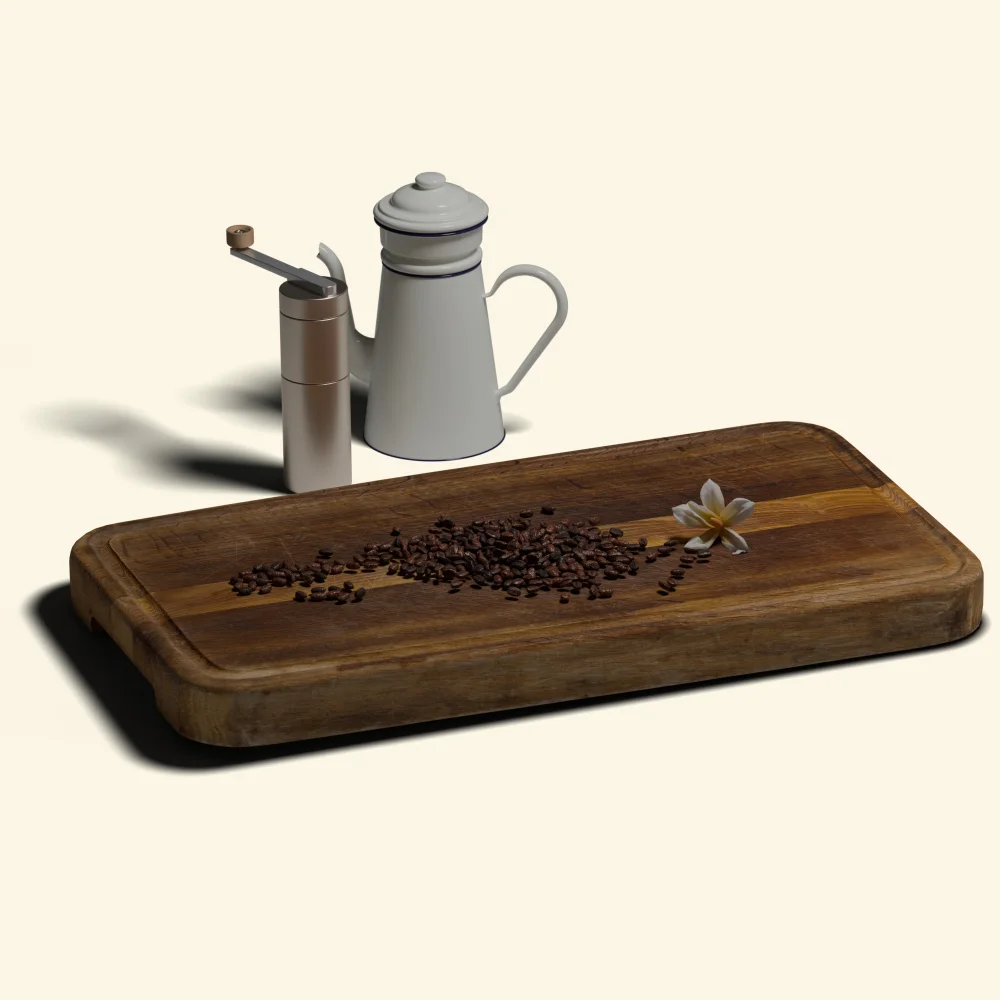
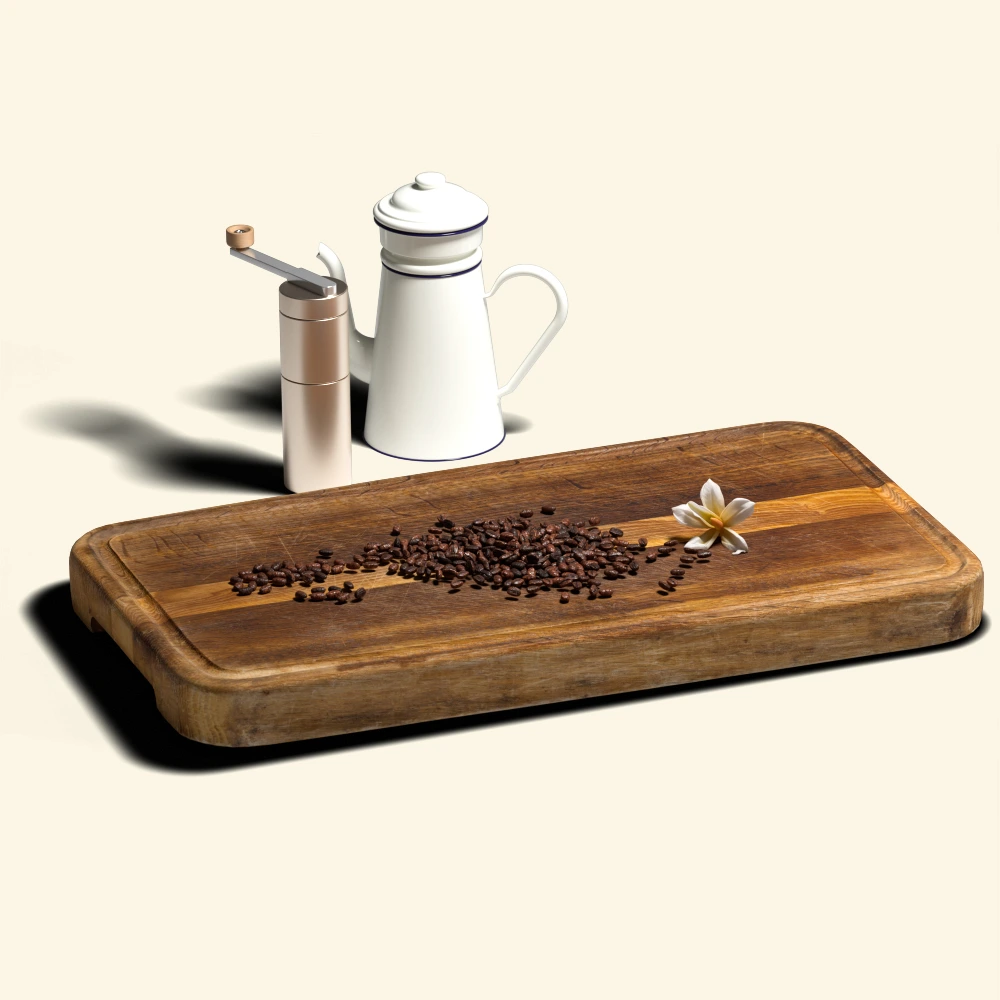
box shadow

Changed region(s): [[0.0, 0.155, 0.992, 0.775]]

diff --git a/index.html b/index.html
@@ -54,6 +54,7 @@
                         <ul class="card__list">
                             <li class="card__item"><a href="#anbaugebiete">Anbaugebiete</a></li>
                             <li class="card__item"><a href="#bohne__zur_tasse">Von der Bohne bis zur Tasse</a></li>
+                            <li class="card__item"><a href="#unvertraeglichkeiten">Unverträglichkeiten</a></li>
                         </ul>
                     </div>
                     <a href="#section-welt-des-kaffees"><svg xmlns="http://www.w3.org/2000/svg" width="32" height="32" fill="#faf5e4" viewBox="0 0 256 256"><path d="M128,24A104,104,0,1,0,232,128,104.11,104.11,0,0,0,128,24Zm0,192a88,88,0,1,1,88-88A88.1,88.1,0,0,1,128,216Zm45.66-93.66a8,8,0,0,1,0,11.32l-32,32a8,8,0,0,1-11.32-11.32L148.69,136H88a8,8,0,0,1,0-16h60.69l-18.35-18.34a8,8,0,0,1,11.32-11.32Z"></path></svg></a>
@@ -139,7 +140,7 @@
                     <div class="tipps__collection_card">
                         <div class="img__wrapper"><img src="./media/beginner/Frisch_bleiben.webp" alt="Fresh coffee beans in airtight container for proper storage"></div>
                         <ul class="tipps__content">
-                            <li class="heading">1. Frisch bleiben</li>
+                            <li class="heading">1. Frisch halten</li>
                             <li class="description">Kaffeebohnen entfalten ihr Aroma am besten, wenn sie frisch sind. Nach dem Öffnen der Packung sollte der Kaffee luftdicht, kühl und dunkel gelagert werden. Gemahlener Kaffee verliert schneller an Geschmack – wer die Möglichkeit hat, mahlt die Bohnen am besten direkt vor der Zubereitung.</li>
                         </ul>
                     </div>
@@ -564,7 +565,7 @@
                     </div>
                 </article>
 
-                <article class="big__tile unvertraeglichkeiten">
+                <article class="big__tile unvertraeglichkeiten" id="unvertraeglichkeiten">
                     <div class="tile__heading">Unverträglichkeiten</div>
                     <div class="tile__subheading">Kaffee ist für viele ein täglicher Genuss, doch nicht jeder verträgt das beliebte Getränk ohne Probleme. Manche Menschen reagieren empfindlich auf bestimmte Inhaltsstoffe, was sich in ganz unterschiedlichen Beschwerden äußern kann. Die Gründe dafür sind vielfältig und reichen von einer sensiblen Verdauung bis hin zu einer genetisch bedingten Koffeinempfindlichkeit.</div>
                 </article>

diff --git a/css/styles.css b/css/styles.css
@@ -242,6 +242,7 @@ nav #card-support {
   transition: all 0.3s ease;
   margin-bottom: 20px;
   padding: 20px;
+  box-shadow: 0 1px 3px rgba(0, 0, 0, 0.2);
 }
 .big__tile.show {
   opacity: 1;
@@ -259,6 +260,7 @@ nav #card-support {
   padding: 0px 20px;
   font-weight: 600;
   font-size: clamp(0.6rem, 0.8vw, 1.2rem);
+  box-shadow: 0 0px 5px rgba(0, 0, 0, 0.2);
 }
 
 .reg__tile {
@@ -543,6 +545,8 @@ nav #card-support {
   width: calc((100% - 60px) / 4);
   position: relative;
   cursor: pointer;
+  box-shadow: 0 1px 3px rgba(0, 0, 0, 0.2);
+  border-radius: 10px;
 }
 #section-erfahrene-geniesser .expertentipps__list .expertentipps__card .heading {
   background-color: var(--erfahreneColor);
@@ -683,6 +687,7 @@ nav #card-support {
   transition: all 0.3s ease;
   z-index: 20;
   pointer-events: none;
+  box-shadow: 0 1px 8px rgba(0, 0, 0, 0.2);
 }
 #section-welt-des-kaffees .weltkarte_wrapper .description .heading {
   font-size: var(--headingFontSize);

diff --git a/css/styles.scss b/css/styles.scss
@@ -288,6 +288,7 @@ nav{
     transition: all 0.3s ease;
     margin-bottom: $mb;
     padding: 20px;
+    box-shadow: 0 1px 3px rgba(0, 0, 0, 0.2);
 
     &.show{
         opacity: 1;
@@ -306,6 +307,7 @@ nav{
     padding: 0px 20px;
     font-weight: 600;
     font-size: clamp(0.6rem, 0.8vw, 1.2rem);
+    box-shadow: 0 0px 5px rgba(0, 0, 0, 0.2);
 }
 
 .reg__tile{
@@ -634,6 +636,8 @@ nav{
             width: calc((100% - 60px) / 4);
             position: relative;
             cursor: pointer;
+            box-shadow: 0 1px 3px rgba(0, 0, 0, 0.2);
+            border-radius: 10px;
 
             .heading{
                 background-color: var(--erfahreneColor);
@@ -800,6 +804,7 @@ nav{
             transition: all 0.3s ease;
             z-index: 20;
             pointer-events: none;
+            box-shadow: 0 1px 8px rgba(0, 0, 0, 0.2);
 
             .heading{
                 font-size: var(--headingFontSize);
